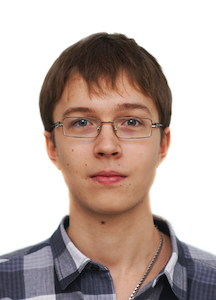
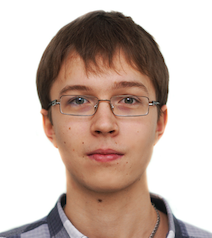
feat: finish cv

diff --git a/index.html b/index.html
@@ -17,7 +17,10 @@
                 <ul class="nav-list">
                     <li><a href="#contacts" class="nav-link">Contacts</a></li>
                     <li><a href="#summary" class="nav-link">Summary</a></li>
+                    <li><a href="#skills" class="nav-link">Skills</a></li>
+                    <li><a href="#code" class="nav-link">Code</a></li>
                     <li><a href="#work-expirience" class="nav-link">Work expirience</a></li>
+                    <li><a href="#projects" class="nav-link">Projects</a></li>
                     <li><a href="#education" class="nav-link">Education</a></li>
                     <li><a href="#languages" class="nav-link">Languages</a></li>
                 </ul>
@@ -34,12 +37,6 @@
                     <h3>Junior Front-end Developer</h3>
                 </div>
             </section>
-            <!-- <section class="section photo"><img src="" alt="profile photo"></section>
-            <section class="section" id="profile">
-                <h1>Aleksandr Nemtsev</h1>
-                <h3>Junior Front-end Developer</h3>
-                <p></p>
-            </section> -->
             <section class="section" id="contacts">
                 <h2>Contacts</h2>
                 <ul class="contacts">
@@ -52,13 +49,51 @@
             </section>
             <section class="section" id="summary">
                 <h2>Summary</h2>
-                <p></p>
+                <p> I'm going to become a front-end developer. I started my way from Dart and Flutter
+                    for multiplatform development because I like to work with UI. But because these
+                    technologies are relatively new and not such popular I've decided to learn more
+                    in demand technologies.
+                </p>
+            </section>
+            <section class="section" id="skills">
+                <h2>Skills</h2>
+                <dl>
+                    <dt>Multiplatform devlopment:</dt>
+                    <dd>
+                        Dart, Flutter, Provider, BLoC, SQLite
+                    </dd>
+                    <dt>Web development:</dt>
+                    <dd>
+                        HTML 5, CSS
+                    </dd>
+                    <dt>Version control:</dt>
+                    <dd>Git, GitHub</dd>
+
+                </dl>
+            </section>
+            <section class="section" id="code">
+                <h2>Code</h2>
+                <code>
+                    <span class="type">String</span> <span class="func-name">bool_to_word</span> 
+                    <span class="bracket">(</span><span class="type">bool</span> 
+                    <span class="var-name">boolean</span><span class="bracket">) {</span>
+                    <br>
+                    <span class="return">&nbsp;&nbsp;return</span> <span class="var-name">boolean</span> ? 
+                    <span class="data">'Yes'</span> : <span class="data">'No'</span>;
+                    <br>
+                    <span class="bracket">}</span>
+            </code>
             </section>
             <section class="section" id="work-expirience">
                 <h2>Work experience</h2>
                 <p>JSC XXXXXX, Moscow</p>
                 <p>December 2019-present</p>
                 <p>Engineer-technologis</p>
+            </section>
+            <section class="section" id="projects">
+                <h2>Projects</h2>
+                <p><a href="https://github.com/AlexNemtsev/pomodoro" target="_blank">Pomodoro timer for smartphones</a>
+                </p>
             </section>
             <section class="section" id="education">
                 <h2>Education</h2>
@@ -74,7 +109,12 @@
         </div>
     </main>
     <footer class="footer">
-        <div class="container"></div>
+        <div class="container footer-container">
+            <div class="section">&copy; 2022, <a href="https://github.com/AlexNemtsev" target="_blank">AlexNemtsev</a>
+            </div>
+            <div class="section"><a href="https://rs.school/js/" target="_blank"><img
+                        src="assets/images/rs_school_js.svg" alt="Logo" width="100"></a></div>
+        </div>
     </footer>
 </body>
 

diff --git a/style.css b/style.css
@@ -59,12 +59,6 @@ body {
     align-items: center;
 }
 
-/* .photo {
-    width: 200px;
-    height: 200px;
-    border: 1px solid;
-} */
-
 @media (max-width: 768px) {
     .section {
         width: 100%;
@@ -77,9 +71,44 @@ body {
     width: 100%;
 }
 
-/* #profile {
-    text-align: center;
+#code {
+    font-size: 1rem;
+}
+
+.type {
+    color: #3F90A7;
+}
+
+.func-name {
+    color: #7A5E1C;
+}
+
+.bracket {
+    color: #1E8F1D;
+}
+
+.var-name {
+    color: #010078;
+}
+
+.return {
+    color: #A700D8;
+}
+
+.data {
+    color: #9D0000;
+}
+
+.footer-container {
     display: flex;
-    flex-direction: column;
-    justify-content: center;
-} */
+    justify-content: flex-end;
+    padding: 20px;
+}
+
+#summary {
+    text-align: justify;
+}
+
+.photo {
+    width: 150px;
+}
